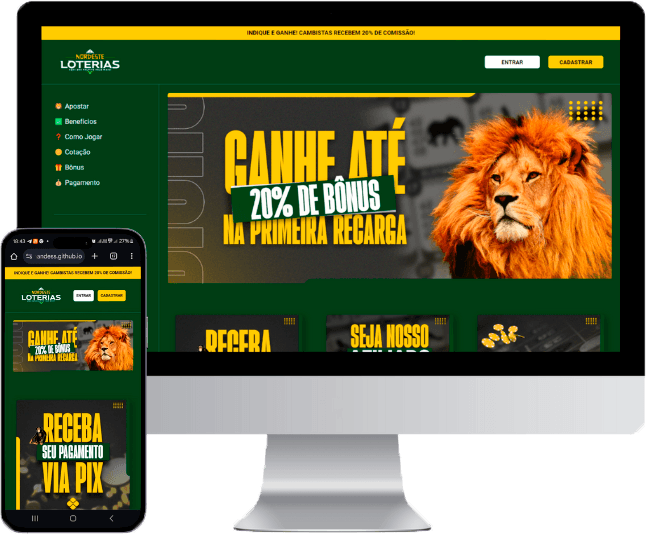
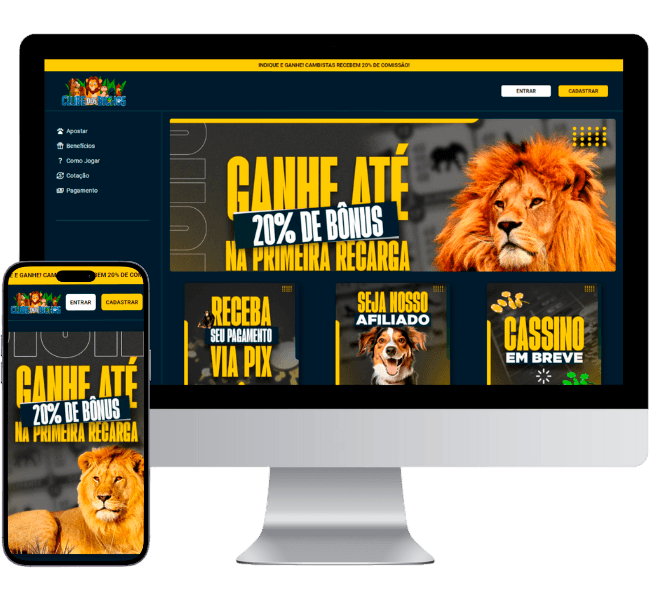
novas alterações

diff --git a/index.html b/index.html
@@ -10,7 +10,8 @@
     <link
         href="https://fonts.googleapis.com/css2?family=Poppins:ital,wght@0,100;0,200;0,300;0,400;0,500;0,600;0,700;0,800;0,900;1,100;1,200;1,300;1,400;1,500;1,600;1,700;1,800;1,900&family=Roboto:ital,wght@0,100;0,300;0,400;0,500;0,700;0,900;1,100;1,300;1,400;1,500;1,700;1,900&display=swap"
         rel="stylesheet">
-    <title>Tela Inicial</title>
+    <link rel="stylesheet"
+        href="https://fonts.googleapis.com/css2?family=Material+Symbols+Outlined:opsz,wght,FILL,GRAD@20..48,100..700,0..1,-50..200" />
 </head>
 
 <body>
@@ -23,7 +24,7 @@
         </div>
         <div>
             <nav>
-                <img src="assets/NORDESTE LOTERIAS LOGO.png" alt="">
+                <img src="assets/logo Clube dos Bichos.png" alt="">
                 <div>
                     <button onclick="toEnter()" class="buttonToEnter">ENTRAR</button>
                     <button onclick="register()" class="buttonRegister">CADASTRAR</button>
@@ -34,21 +35,31 @@
     <main>
         <section class="side-menu hidden">
             <div class="menu">
-                <a href="javascript:toEnter()">🦁 Apostar</a>
-                <a href="#benefits">✅ Benefícios</a>
-                <a href="#play">❓ Como Jogar</a>
-                <a href="#price">🪙 Cotação</a>
-                <a href="#index.html">🎁 Bônus</a>
-                <a href="#formsOfPayment">💰 Pagamento</a>
+                <a href="javascript:toEnter()" class="menu-item">
+                    <span class="material-symbols-outlined">pets</span> Apostar
+                </a>
+                <a href="#benefits" class="menu-item">
+                    <span class="material-symbols-outlined">featured_seasonal_and_gifts</span> Benefícios
+                </a>
+                <a href="#play" class="menu-item">
+                    <span class="material-symbols-outlined">question_mark</span> Como Jogar
+                </a>
+                <a href="#price" class="menu-item">
+                    <span class="material-symbols-outlined">currency_exchange</span> Cotação
+                </a>
+                <a href="#formsOfPayment" class="menu-item">
+                    <span class="material-symbols-outlined">payments</span> Pagamento
+                </a>
+                
                 <p class="line"></p>
             </div>
         </section>
         <section class="container-main hidden">
             <div class="container-welcome">
                 <div class="background-Img"></div>
-                <img src="assets/ARTE-3.png" alt="">
-                <img src="assets/ARTE-4.png" alt="">
-                <img src="assets/ARTE-5.png" alt="">
+                <img src="assets/ARTE-3.jpg" alt="">
+                <img src="assets/ARTE-4.jpg" alt="">
+                <img src="assets/ARTE-5.jpg" alt="">
             </div>
 
             <div class="container-benefits hidden" id="benefits">
@@ -60,7 +71,8 @@
                     <div class="txt-benefits hidden">
                         <h4>Jogar no bicho online oferece a conveniência de fazer suas apostas no conforto da sua casa,
                             a
-                            qualquer hora e de qualquer lugar. Com a Bicho Mania, é ainda melhor! Descubra as vantagens
+                            qualquer hora e de qualquer lugar. Com a Clube dos Bichos, é ainda melhor! Descubra as
+                            vantagens
                             de
                             apostar no jogo do bicho online:</h4>
                         <p><img src="" alt=""><span>Segurança:</span> Nossa plataforma de jogo do bicho online oferece
@@ -133,10 +145,55 @@
                 <h2 class="hidden">Nossas Cotações</h2>
                 <div class="items-price">
                     <div class="img-price hidden">
-                        <img src="assets/TABELA-COTAÇÃO---1200X900.png" alt="">
+                        <table>
+                            <tr class="color-one">
+                                <th>MODALIDADES</th>
+                                <th>COTAÇÕES</th>
+                            </tr>
+                            <tr  class="color-two">
+                                <td>MILHAR</td>
+                                <td>R$ 5.000,00</td>
+                            </tr>
+                            <tr class="color-one">
+                                <td>CENTENA</td>
+                                <td>R$ 600,00</td>
+                            </tr>
+                            <tr  class="color-two">
+                                <td>GRUPO</td>
+                                <td>R$ 18,00</td>
+                            </tr>
+                            <tr class="color-one">
+                                <td>DUQUE DE GRUPO</td>
+                                <td>R$ 20,00</td>
+                            </tr>
+                            <tr  class="color-two">
+                                <td>DUQUE DE DEZENA</td>
+                                <td>R$ 200,00</td>
+                            </tr>
+                            <tr class="color-one">
+                                <td>QUADRA DE DUQUE</td>
+                                <td>R$ 1.000,00</td>
+                            </tr>
+                            <tr  class="color-two">
+                                <td>TERNO DE GRUPO</td>
+                                <td>R$ 150,00</td>
+                            </tr>
+                            <tr class="color-one">
+                                <td>TERNO DE DEZENA</td>
+                                <td>R$ 4.000,00</td>
+                            </tr>
+                            <tr  class="color-two">
+                                <td>PASSE IDA</td>
+                                <td>R$ 90,00</td>
+                            </tr>
+                            <tr class="color-one">
+                                <td>PASSE ISA X VOLTA</td>
+                                <td>R$ 45,00</td>
+                            </tr>
+                        </table>
                     </div>
                     <div class="txt-price hidden">
-                        <h4>Na Nordeste Loterias, oferecemos as melhores cotações do mercado, garantindo que você tenha
+                        <h4>No Clube dos Bichos, oferecemos as melhores cotações do mercado, garantindo que você tenha
                             acesso às odds mais competitivas para suas apostas. Nossas cotações são cuidadosamente
                             elaboradas para maximizar suas chances de ganhar.</h4>
                         <h5>Por que escolher nossas cotações?</h5>
@@ -155,7 +212,7 @@
 
             <div class="container-formsOfPayment hidden" id="formsOfPayment">
                 <h2>Formas de pagamento</h2>
-                <p>Na Nordeste Loterias, garantimos a máxima segurança dos seus dados e um compromisso sólido com a
+                <p>No Clube dos Bichos, garantimos a máxima segurança dos seus dados e um compromisso sólido com a
                     integridade dos jogos do bicho online. Nossa prioridade é oferecer qualidade, segurança e agilidade
                     em todas as operações. <br><br>
 
@@ -179,15 +236,15 @@
                     <a href="">Política de Privacidade</a>
                     <a href="">Termos de uso</a>
                 </div>
-                <p>A Nordeste Loterias permite apenas clientes com mais de 18 anos de idade. Jogue com responsabilidade.
+                <p>O Clube dos Bichos permite apenas clientes com mais de 18 anos de idade. Jogue com responsabilidade.
                 </p>
-                <p>Nordeste Loterias - Todos os direitos reservados © 2024</p>
+                <p>Clube dos Bichos - Todos os direitos reservados © 2024</p>
             </div>
         </section>
     </main>
     <form class="form-to-enter" action="" method="post">
         <p onclick="closelogin()" class="toClose">X</p>
-        <img src="assets/NORDESTE LOTERIAS LOGO.png" alt="Logo">
+        <img src="assets/logo Clube dos Bichos.png" alt="Logo">
         <h3>Entre na sua conta</h3>
 
         <input type="text" placeholder="Insira seu usuário" required>
@@ -208,7 +265,7 @@
 
     <form class="form-register" method="post">
         <p onclick="closeRegistration()" class="toClose">X</p>
-        <img src="assets/NORDESTE LOTERIAS LOGO.png" alt="Logo">
+        <img src="assets/logo Clube dos Bichos.png" alt="Logo">
         <h3>Cadastre-se</h3>
 
         <input type="text" placeholder="Insira seu nome" required>
@@ -233,7 +290,7 @@
 
     <form class="form-forgot-password" method="post">
         <p onclick="closeForgotPassword()" class="toClose">X</p>
-        <img src="assets/NORDESTE LOTERIAS LOGO.png" alt="Logo">
+        <img src="assets/logo Clube dos Bichos.png" alt="Logo">
         <h3>Cadastrar Nova Senha</h3>
 
         <input type="text" placeholder="Insira seu Usuário" required>

diff --git a/style.css b/style.css
@@ -1,5 +1,5 @@
 :root {
-    --corFundo: #003F1D;
+    --corFundo: #012030;
     --corDestaque: #FFCB05;
     --corLetras: #000;
     --corLetrasMenuLateral: #fff;
@@ -35,13 +35,28 @@ header .range h3 {
 header div nav {
     display: flex;
     justify-content: space-between;
-    padding: 20px 40px 20px 40px;
+    padding: 10px 40px 10px 40px;
     align-items: center;
     border-bottom: 1px solid var(--corLinhas);
 }
 
+
+
+.menu-item {
+    display: flex;
+    align-items: center;
+    text-decoration: none; 
+    padding: 2px;
+}    
+
+.menu-item .material-symbols-outlined {
+    margin-right: 6px; 
+    font-size: 20px;
+}
+
+
 nav img {
-    width: 150px;
+    width: 180px;
 }
 
 nav div {
@@ -121,7 +136,7 @@ main .container-main {
 }
 
 .background-Img {
-    background-image: url(assets/arte-rincipal.png);
+    background-image: url(assets/ARTE-1.jpg);
     background-size: cover;
     background-repeat: no-repeat;
     width: 100%;
@@ -291,7 +306,34 @@ main .container-main {
     flex-wrap: wrap;
 }
 
+table {
+    width: 430px;
+    border-radius: 10px;
+    padding: 10px;
+}
+table th {
+    font-size: 20px;
+    color: var(--corFundo);  
+    padding: 5px;
+    font-weight: bolder;
+    border-radius: 10px;
+}
 
+table td {
+    font-size: 20px;
+    font-weight: bolder;
+    color: var(--corFundo);
+    padding: 5px;
+    border-radius: 10px;
+}
+
+.color-one {
+    background-color: var(--corDestaque);
+}
+
+.color-two {
+    background-color: var(--corLetrasMenuLateral);
+}
 
 .img-price {
     width: 400px;
@@ -646,6 +688,10 @@ form .toClose:hover {
         
     }
 
+    table {
+        width: 100%;
+    }
+
     header .range {
         width: 100%;
     }
@@ -674,7 +720,7 @@ form .toClose:hover {
     }
 
     .background-Img {
-        background-image: url(assets/ARTE-2.png);
+        background-image: url(assets/ARTE-2.jpg);
         background-repeat: no-repeat;
         background-size: cover;
         box-shadow: rgba(0, 0, 0, 0.35) 0px 5px 15px;

diff --git a/script.js b/script.js
@@ -4,7 +4,7 @@ const buttonCloseEnter = document.querySelector(".toClose");
 const formToRegister = document.querySelector(".form-register");
 const formForgotPassword = document.querySelector(".form-forgot-password")
 
-
+//Inicio Efeito Elementos Aparecem ao deslizar pelo site
 const myObserver = new IntersectionObserver( (entries) => {
     entries.forEach( (entry) => {
         if(entry.isIntersecting){
@@ -18,6 +18,7 @@ const myObserver = new IntersectionObserver( (entries) => {
 const elements = document.querySelectorAll(".hidden")
 
 elements.forEach( (element) => myObserver.observe(element))
+//Fim Efeito Elementos Aparecem ao deslizar pelo site
 
 
 function toEnter() {
